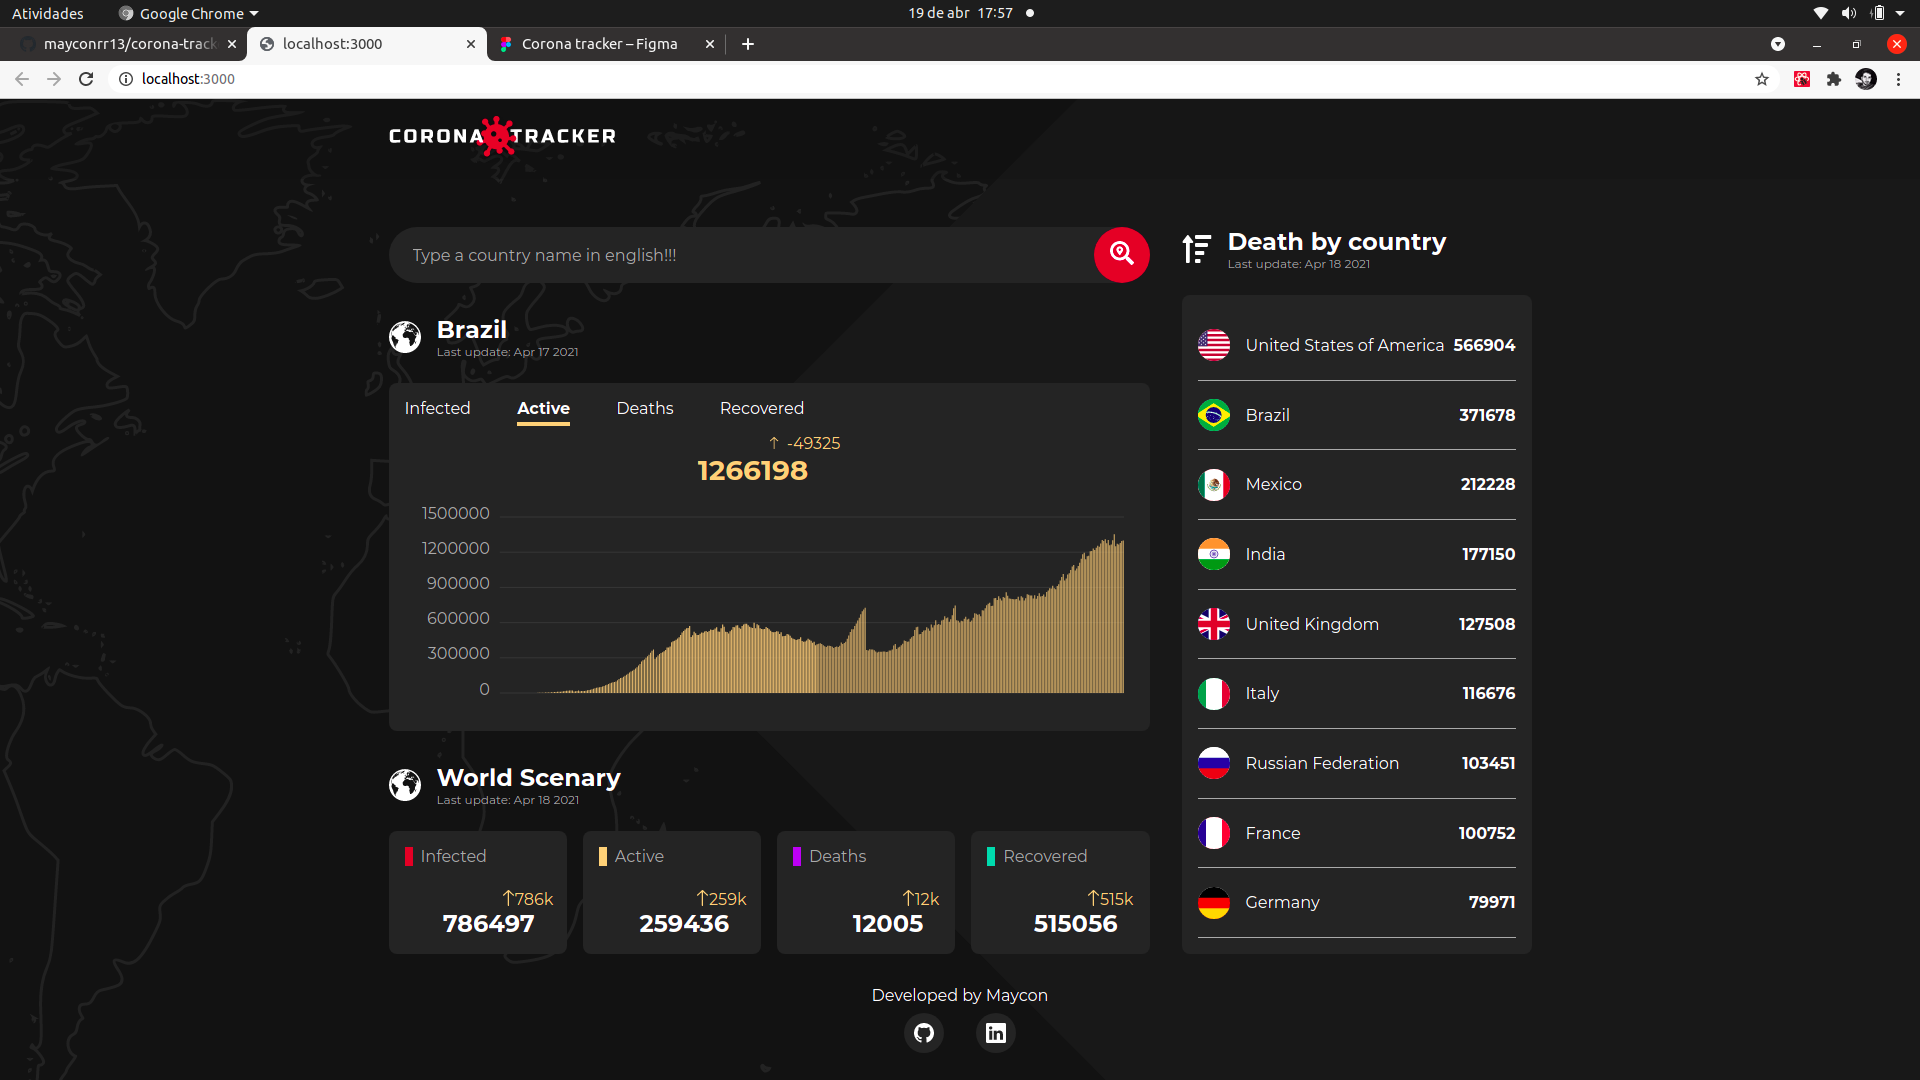
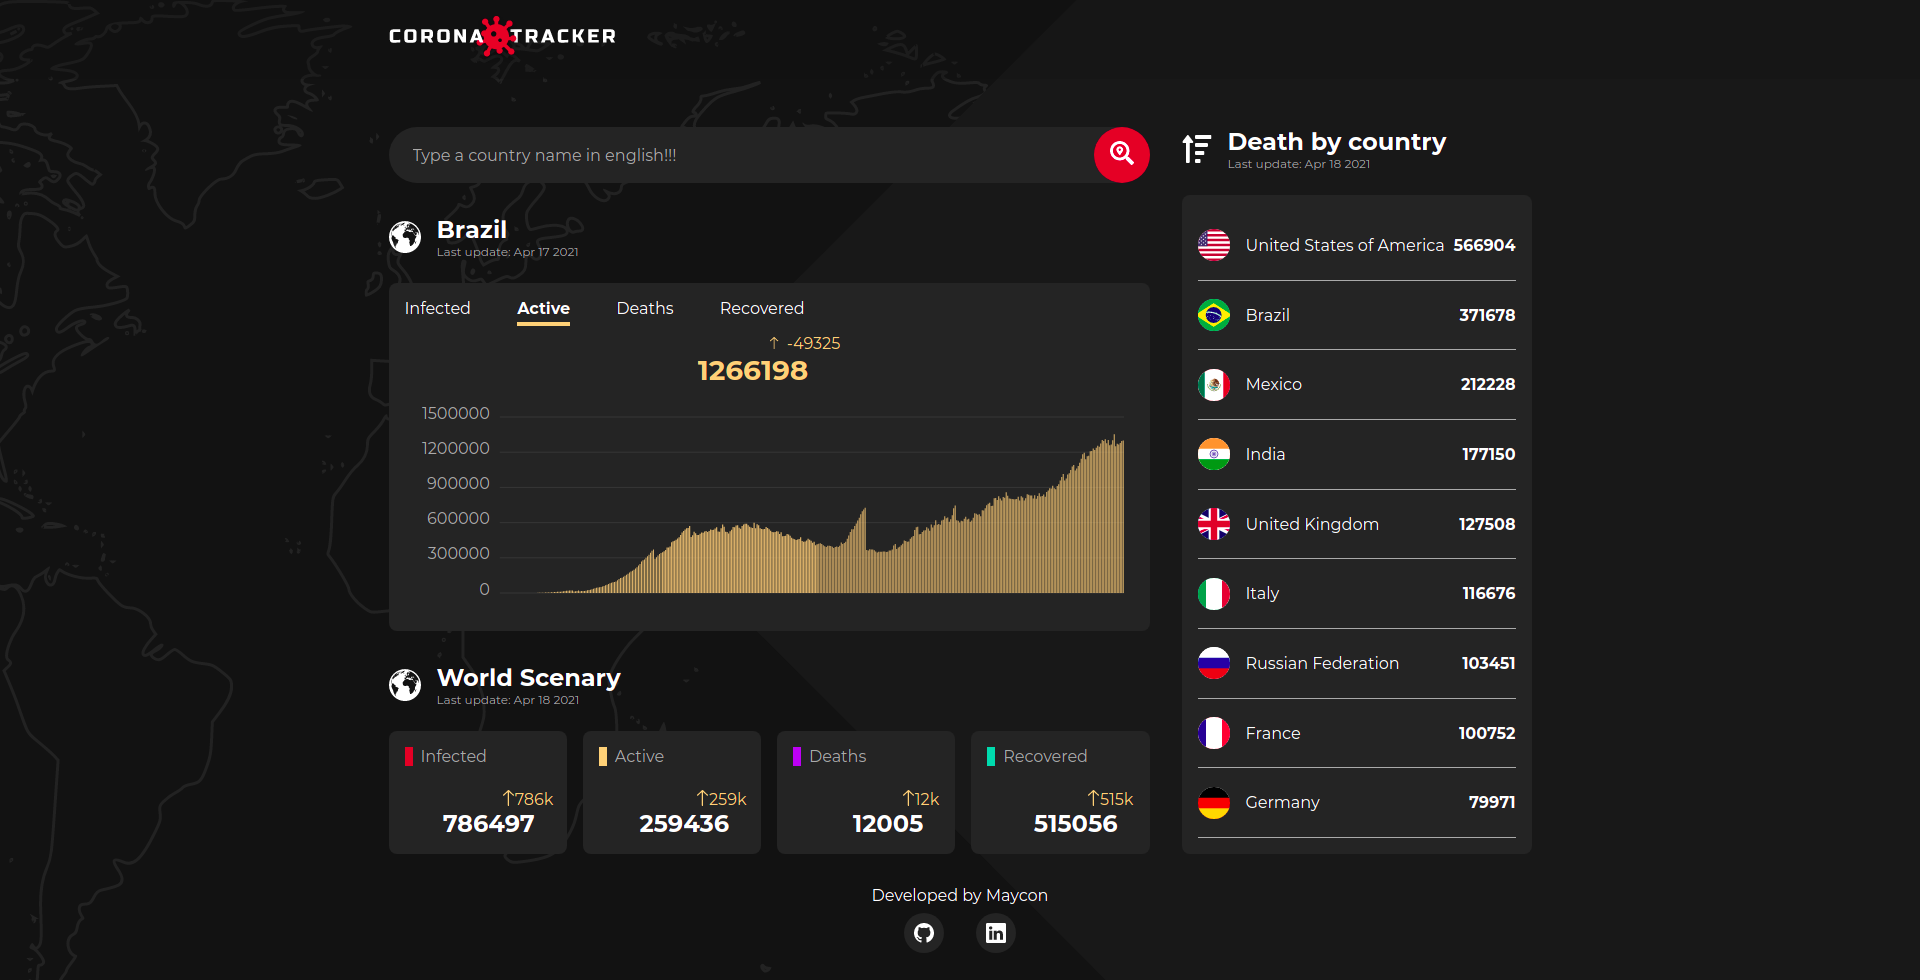
Editing images

diff --git a/README.md b/README.md
@@ -34,14 +34,14 @@
 <img alt="mobile" title="corona-tracker-mobile" src="./public/figma.png"/>
 
 * Mobile
-<img alt="mobile-country" title="corona-tracker-mobile" src="./public/mobile-country.png"/>
-<img alt="mobile-world" title="corona-tracker-mobile" src="./public/mobile-world.png"/>
-<img alt="mobile-ranking" title="corona-tracker-mobile" src="./public/mobile-ranking.png"/>
+<img alt="mobile-country" title="corona-tracker-mobile" src="./public/mobile-country1.png"/>
+<img alt="mobile-world" title="corona-tracker-mobile" src="./public/mobile-world1.png"/>
+<img alt="mobile-ranking" title="corona-tracker-mobile" src="./public/mobile-ranking1.png"/>
 
 * Web
-<img alt="web-home" title="corona-tracker-web" src="./public/home.png" />
-<img alt="web-loading" title="corona-tracker-web" src="./public/loading.png" />
-<img alt="web-confirmed" title="corona-tracker-web" src="./public/confirmed.png" />
+<img alt="web-home" title="corona-tracker-web" src="./public/home1.png" />
+<img alt="web-loading" title="corona-tracker-web" src="./public/loading1.png" />
+<img alt="web-confirmed" title="corona-tracker-web" src="./public/confirmed1.png" />
 
 ### Como instalar
 ---
